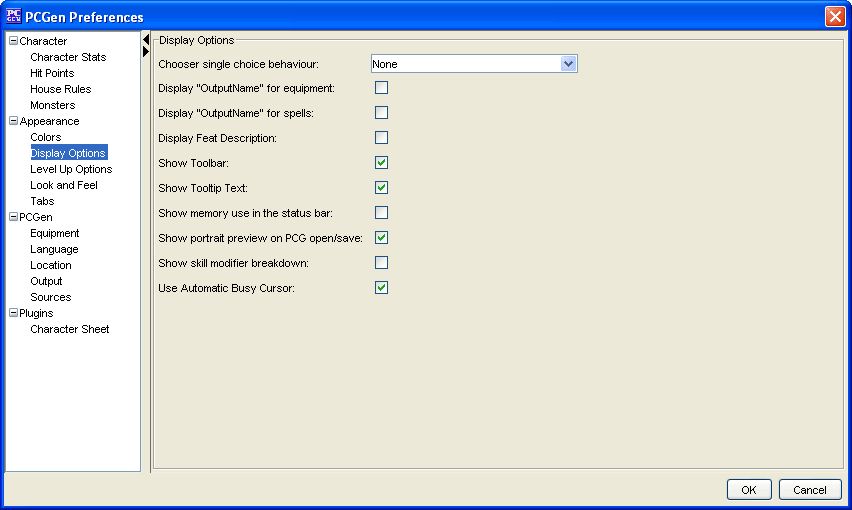
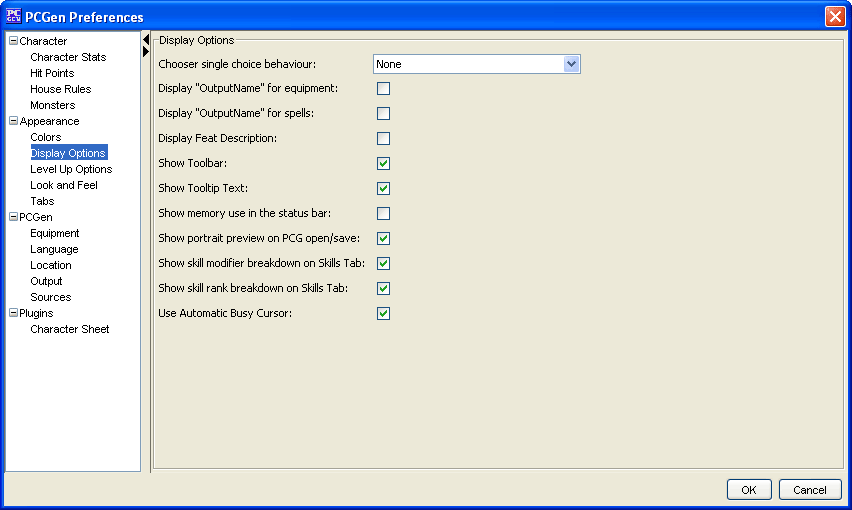
[ 1696529 ] Update screen shots for 5.12, missed a few of the new preferences
git-svn-id: svn+ssh://svn.code.sf.net/p/pcgen/code/Trunk@3184 ef53c05b-3124-4d59-ae7d-fe3273f42be7

diff --git a/pcgen/docs/menupages/settings/character/characterhitpointsoption.html b/pcgen/docs/menupages/settings/character/characterhitpointsoption.html
@@ -35,14 +35,17 @@
 		<p>The <strong>Random</strong> option will present a random hitpoint total between 1 and the hit die 
 		type of the class/race when a class level is added. The user can modify this total if desired.</p>
 		
-		<p>The <strong>Always maximum</strong> option will always give the maximum hit points as defined by 
+		<p>The <strong>Average</strong> option will always give the average hit points as defined by 
 		the hit die type of the class/race.</p>
 		
-		<p>The <strong>Average</strong> option will always give the average hit points as defined by 
+		<p>The <strong>Always maximum</strong> option will always give the maximum hit points as defined by 
 		the hit die type of the class/race.</p>
 		
 		<p>The <strong>Percentage</strong> option allows the user to enter a percentage of the maximum hit points as defined by 
 		the hit die type of the class/race.</p>
+		
+		<p>The <strong>Average, Rounded Up</strong> option will always give the average hit points as defined by 
+		the hit die type of the class/race rounded up if the average results in a fraction.</p>
 		
 		<p>The <strong>Max Hp at first level </strong>option gives you maximum Hit Points at first level when 
 		you are creating your character.</p>

diff --git a/pcgen/docs/menupages/settings/appearance/appearancelevelup.html b/pcgen/docs/menupages/settings/appearance/appearancelevelup.html
@@ -28,7 +28,6 @@
 		<p>The <strong>Level Up Options</strong> menu option will allow you to set options for:</p>
 		<ul>
 			<li><strong>Show HP Dialog at Level Up</strong>. Shows the HP dialog box when you level up.</li>
-			<li><strong>Show Feat Dialog at Level Up</strong>. Shows the Feat dialog box as appropriate when you level up.</li>
 			<li><strong>Show Stat Dialog at Level Up</strong>. Shows the Stat dialog box as appropriate when you level up.</li>
 			<li><strong>Show abilities warning for each new character</strong>. Shows a reminder to set your abilities before leveling up.</li>
 			<li><strong>Enforce spending of skill points and feats before leveling up</strong>. 
